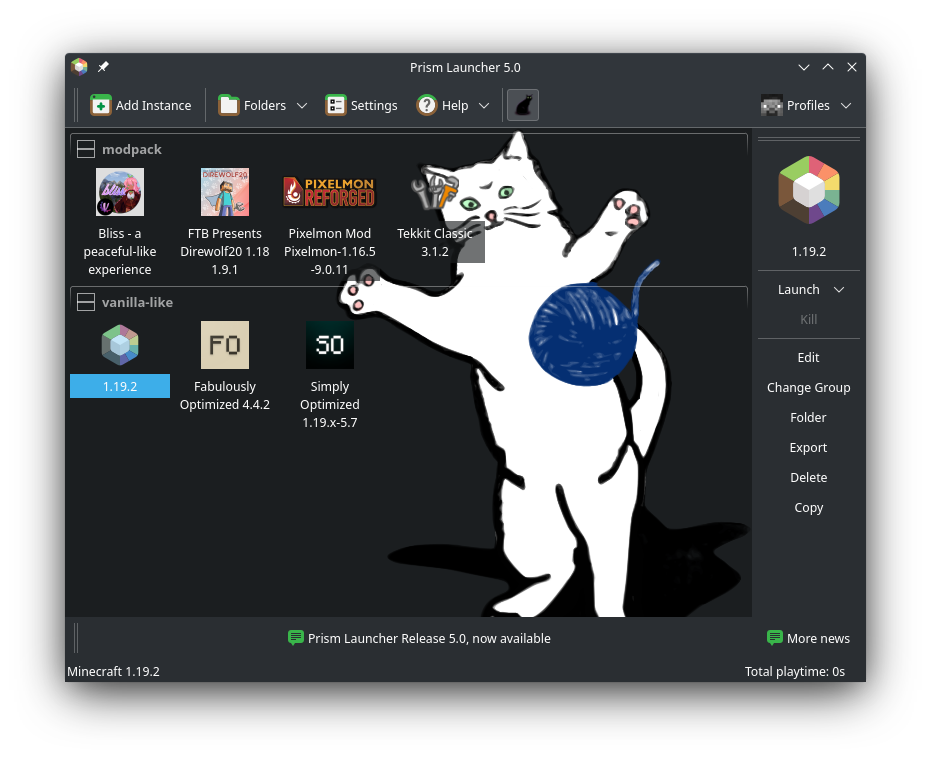
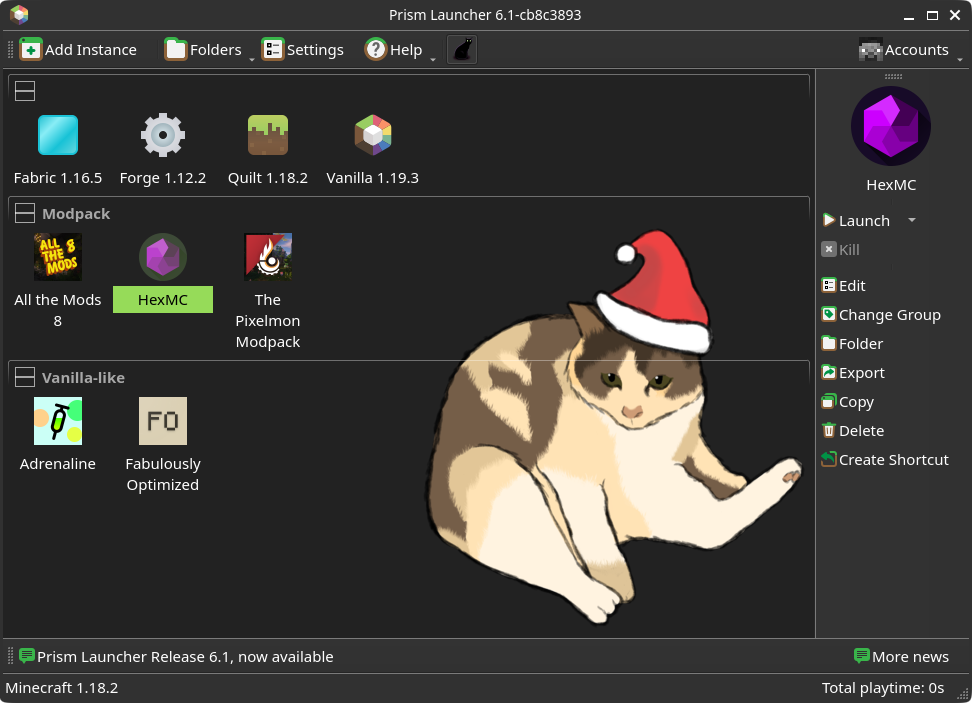
Replace index screenshots
Update screenshots to 6.1
Also remove Customize Dark and Light with only one screenshot with Fluent

diff --git a/src/index.md b/src/index.md
@@ -66,12 +66,12 @@ hero:
       <div>
         <h1>Lightweight & Customizable</h1>
         <div class="subtitle">
-          You don't need an embedded web browser for a game launcher. Prism Launcher uses the Qt toolkit, which requires little system resources. Prism Launcher also supports customizing the instance window and theme.
+          You do not need an embedded web browser as a game launcher. Prism Launcher uses the Qt toolkit, which requires little system resources. Prism Launcher also let you customize the menu and supports [custom themes](https://prismlauncher.org/wiki/getting-started/change-themes/).
         </div>
       </div>
     </div>
     <div class="column">
-      {% image "Mod Installer", "./src/img/screenshots/CustomizeLight.png", "./src/img/screenshots/CustomizeDark.png" %}
+      {% image "Mod Installer", "./src/img/screenshots/Customize.png" %}
     </div>
   </div>
 </div>
